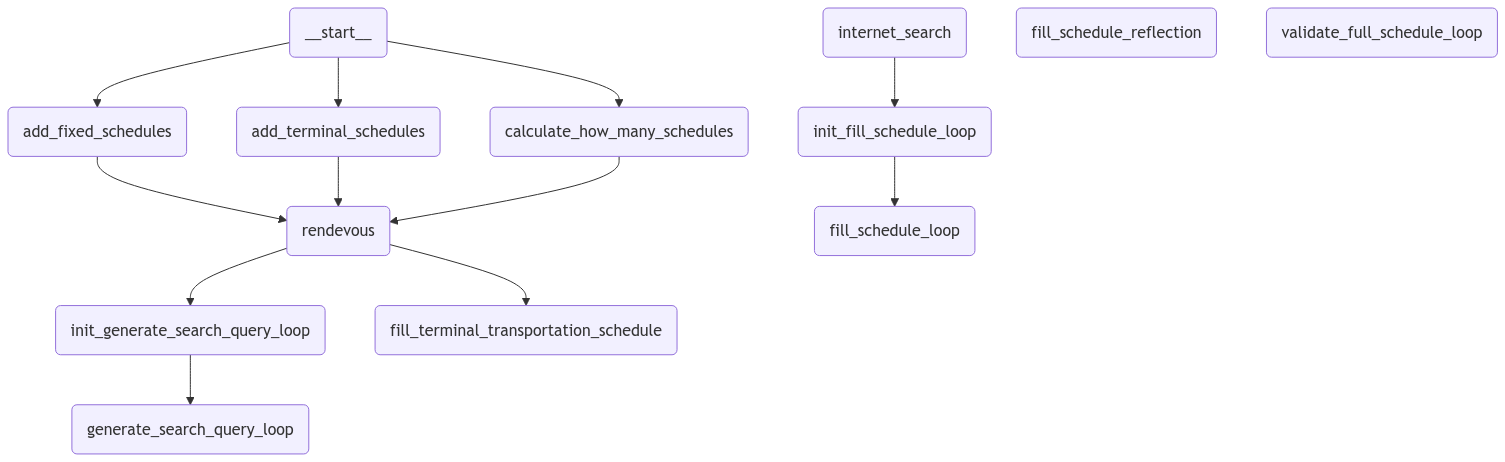
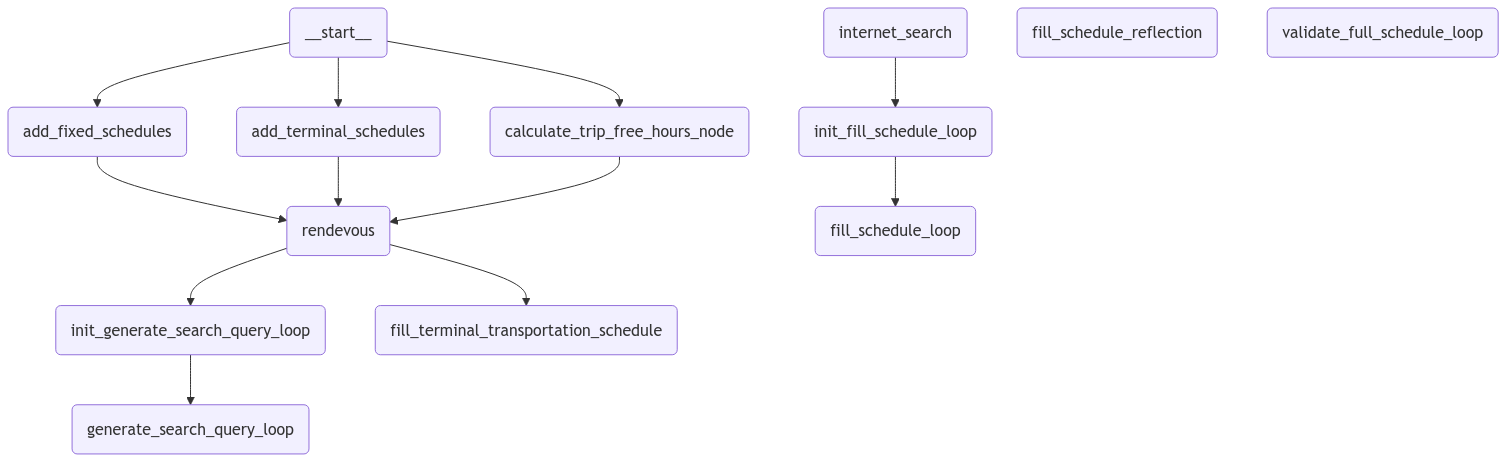
refactor: change name of calculate_trip_free_hours_node

diff --git a/backend/app/workflows/generate_schedule_graph.py b/backend/app/workflows/generate_schedule_graph.py
@@ -57,7 +57,7 @@ class FillScheduleResponse(BaseModel):
     actions: list[ScheduleAction]
 
 
-def calculate_how_many_schedules(state: OverallState, writer: StreamWriter):
+def calculate_trip_free_hours_node(state: OverallState, writer: StreamWriter):
 
     free_hours: int = calculate_trip_free_hours(
         state.trip_arrival_date,
@@ -830,12 +830,12 @@ Here is the full schedule that you just filled:
 
 
 g = StateGraph(OverallState)
-g.add_edge(START, n(calculate_how_many_schedules))
+g.add_edge(START, n(calculate_trip_free_hours_node))
 g.add_edge(START, n(add_fixed_schedules))
 g.add_edge(START, n(add_terminal_schedules))
 
-g.add_node(calculate_how_many_schedules)
-g.add_edge(n(calculate_how_many_schedules), "rendevous")
+g.add_node(calculate_trip_free_hours_node)
+g.add_edge(n(calculate_trip_free_hours_node), "rendevous")
 
 g.add_node(add_terminal_schedules)
 g.add_edge(n(add_terminal_schedules), "rendevous")
